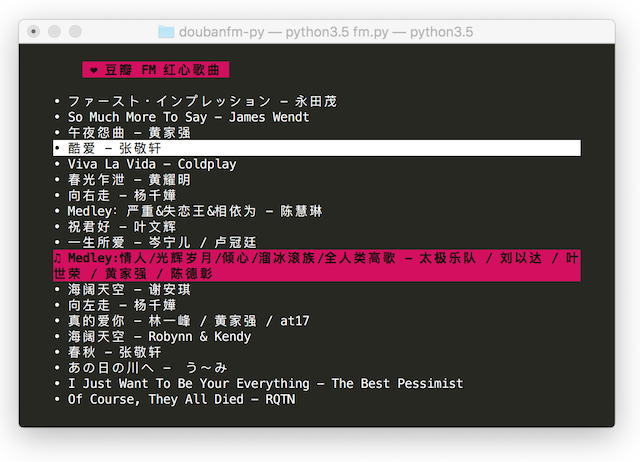
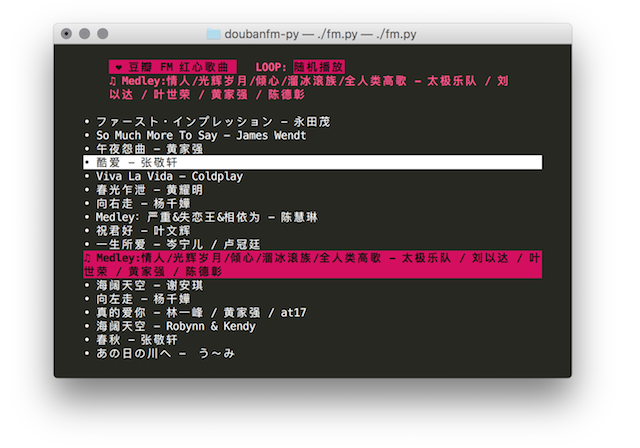
Enhance player

diff --git a/fm.py b/fm.py
@@ -112,7 +112,7 @@ class DoubanFMApi:
 
     def get_redheart_songs(self):
         if self.auth is None:
-            return
+            return []
 
         auth_header = {'Authorization': self.auth}
 
@@ -140,49 +140,37 @@ class DoubanFMApi:
 
 
 class SongButton(urwid.Button):
-    LAST_PRESSED_BTN = None
-
-    def __init__(self, song, on_pressed_callback):
-        self.on_pressed_callback = on_pressed_callback
-        super(SongButton, self).__init__('', self._on_pressed, song)
+    def __init__(self, song, on_pressed_callback, index=0):
+        super(SongButton, self).__init__('', on_pressed_callback)
+        self.index = index
+        self.song = song
+        self.is_playing = False
 
         self._text = urwid.SelectableIcon(
-            u'\N{BULLET} ' + song.title + ' - ' + song.artist,
+            u'• %s - %s' % (song.title, song.artist),
             cursor_position=0)
         self._w = urwid.AttrMap(self._text, None, focus_map='reversed')
+        self.set_is_playing(self.is_playing)
 
-    @property
-    def text(self):
-        return self._text.text
+    # 设置按钮播放状态
+    def set_is_playing(self, is_playing):
+        self.is_playing = is_playing
 
-    def set_text(self, text):
-        self._text.set_text(text)
-
-    def set_attr_map(self, attr_map):
-        self._w.set_attr_map(attr_map)
+        if is_playing:
+            self._text.set_text(u'♫' + self._text.text[1:])
+            self._w.set_attr_map({None: 'playing'})
+        else:
+            self._text.set_text(u'•' + self._text.text[1:])
+            self._w.set_attr_map({'playing': None})
 
     def mouse_event(self, size, event, button, x, y, focus):
         # 屏蔽鼠标点击
         pass
 
-    def _on_pressed(self, button, song):
-        # 按下按钮后, 改变按钮外观
-        if SongButton.LAST_PRESSED_BTN is not None:
-            SongButton.LAST_PRESSED_BTN.set_text(u'\N{BULLET}' + SongButton.LAST_PRESSED_BTN.text[1:])
-            SongButton.LAST_PRESSED_BTN.set_attr_map({'playing': None})
-
-        self.set_text(u'♫' + self.text[1:])
-        self.set_attr_map({None: 'playing'})
-
-        self.on_pressed_callback(button, song)
-        SongButton.LAST_PRESSED_BTN = self
-
 
 class SongListBox(urwid.ListBox):
-    def __init__(self, songs, on_item_pressed_callback):
-        super(SongListBox, self).__init__(urwid.SimpleFocusListWalker(
-            [SongButton(song, on_item_pressed_callback) for song in songs]
-        ))
+    def __init__(self, btns):
+        super(SongListBox, self).__init__(urwid.SimpleFocusListWalker(btns))
 
         self._command_map['j'] = 'cursor down'
         self._command_map['k'] = 'cursor up'
@@ -195,9 +183,9 @@ class SongListBox(urwid.ListBox):
             # 发送退出信号
             urwid.emit_signal(self, 'exit')
 
-        if key in ('p', 'P'):
-            # 暂停/继续播放
-            urwid.emit_signal(self, 'pause_or_play')
+        if key in ('s', 'S'):
+            # 停止播放
+            urwid.emit_signal(self, 'stop')
 
         if key in ('left', 'right'):
             # 下一首歌曲
@@ -209,10 +197,17 @@ class SongListBox(urwid.ListBox):
 
 
 class UI:
+    LOOP_MODE = {
+        0: u'单曲循环',
+        1: u'全部循环',
+        2: u'随机播放',
+    }
+
     def __init__(self):
         self.player = Player()
-        self.songs = []
-        self.playing_song = None
+        self.btns = []
+        self.playing_btn = None
+        self.loop_mode = 0
         self.next_song_alarm = None
         self.main = None
 
@@ -221,6 +216,8 @@ class UI:
             ('reversed', '', '', '', 'standout', ''),
             ('playing', '', '', '', 'bold, g7', '#d06'),
             ('title', '', '', '', 'bold, g7', '#d06'),
+            ('loop_mode', '', '', '', 'bold, g7', '#d06'),
+            ('red', '', '', '', 'bold, #d06', ''),
         ]
 
         self._setup_ui()
@@ -231,15 +228,20 @@ class UI:
 
         api = DoubanFMApi()
         api.login(email, password)
-        self.songs = api.get_redheart_songs()
+        songs = api.get_redheart_songs()
 
         # 头部
-        title = urwid.Text(('title', ' ❤ 豆瓣 FM 红心歌曲 '))
+        self.title = urwid.Text('')
+        self._update_title()
         divider = urwid.Divider()
-        header = urwid.Padding(urwid.Pile([divider, title, divider]), left=4, right=4)
+        header = urwid.Padding(urwid.Pile([divider, self.title, divider]), left=4, right=4)
 
         # 歌曲列表
-        self.song_listbox = SongListBox(self.songs, self._on_item_pressed)
+        index = 0
+        for song in songs:
+            self.btns.append(SongButton(song, self._on_item_pressed, index))
+            index += 1
+        self.song_listbox = SongListBox(self.btns)
 
         # 页面
         self.main = urwid.Padding(
@@ -248,51 +250,89 @@ class UI:
 
         # 注册信号回调
         urwid.register_signal(
-            SongListBox, ['exit', 'pause_or_play', 'next_song', 'change_mode'])
+            SongListBox, ['exit', 'stop', 'next_song', 'change_mode'])
         urwid.connect_signal(self.song_listbox, 'exit', self._on_exit)
-        urwid.connect_signal(self.song_listbox, 'pause_or_play', self._on_exit)
-        urwid.connect_signal(self.song_listbox, 'next_song', self.next_song())
-        urwid.connect_signal(self.song_listbox, 'change_mode', self.change_mode())
+        urwid.connect_signal(self.song_listbox, 'stop', self.stop_song)
+        urwid.connect_signal(self.song_listbox, 'next_song', self.next_song)
+        urwid.connect_signal(self.song_listbox, 'change_mode', self.change_mode)
 
         self.loop = urwid.MainLoop(self.main, palette=self.palette)
         self.loop.screen.set_terminal_properties(colors=256)
 
-    def run(self):
-        self.loop.run()
+    def _update_title(self):
+        text = [
+            ('title', u' ❤ 豆瓣 FM 红心歌曲 '),
+            ('red', u'   LOOP: '),
+            ('loop_mode', u'%s' % UI.LOOP_MODE[self.loop_mode]),
+        ]
 
-    def pause_or_play(self):
-        # todo
-        pass
+        if self.playing_btn is not None:
+            playing_song = self.playing_btn.song
+            text.extend([
+                ('red', u'\n♫ %s - %s' % (playing_song.title, playing_song.artist)),
+            ])
 
-    def next_song(self):
-        # todo
-        pass
+        self.title.set_text(text)
 
-    def change_mode(self):
-        # todo
-        pass
+    def stop_song(self):
+        if self.playing_btn is not None:
+            self.playing_btn.set_is_playing(False)
+        self.playing_btn = None
 
-    def play(self, song):
-        self.player.play(song)
-        self.playing_song = song
-
-        # 循环播放
-        def next_song_alarm_handler(loop, user_data):
-            self.play(self.playing_song)
+        self.player.stop()
+        self._update_title()
 
         if self.next_song_alarm is not None:
             self.loop.remove_alarm(self.next_song_alarm)
 
-        self.next_song_alarm = self.loop.set_alarm_in(
-            self.playing_song.length_in_sec,
-            next_song_alarm_handler, None)
+    def next_song(self):
+        # 单曲循环
+        if self.loop_mode == 0:
+            self._on_item_pressed(self.playing_btn)
+        # 全部循环
+        elif self.loop_mode == 1:
+            index = self.playing_btn.index + 1
+            if index >= len(self.btns):
+                index = 0
+            next_song_btn = self.btns[index]
+            self._on_item_pressed(next_song_btn)
+        # 随机播放
+        elif self.loop_mode == 2:
+            next_song_btn = self.btns[random.randint(0, len(self.btns) - 1)]
+            self._on_item_pressed(next_song_btn)
 
-    def _on_item_pressed(self, button, song):
-        self.play(song)
+    def change_mode(self):
+        if self.loop_mode < 2:
+            self.loop_mode += 1
+        else:
+            self.loop_mode = 0
+
+        self._update_title()
+
+    def _on_item_pressed(self, button):
+        if self.playing_btn is not None:
+            self.playing_btn.set_is_playing(False)
+        self.playing_btn = button
+        self.playing_btn.set_is_playing(True)
+
+        playing_song = self.playing_btn.song
+        self.player.play(playing_song)
+        self._update_title()
+
+        # 循环播放定时设置
+        if self.next_song_alarm is not None:
+            self.loop.remove_alarm(self.next_song_alarm)
+
+        self.next_song_alarm = self.loop.set_alarm_in(
+            playing_song.length_in_sec,
+            lambda loop, data: self.next_song(), None)
 
     def _on_exit(self):
         self.player.stop()
         raise urwid.ExitMainLoop()
+
+    def run(self):
+        self.loop.run()
 
 
 if __name__ == '__main__':

diff --git a/README.md b/README.md
@@ -4,7 +4,15 @@
 
 第三方 **豆瓣 FM** 红心频道播放器。你需要事先安装  `requests`、`urwid` 库，以及安装 [mpg123](http://www.mpg123.de/) / [mplayer](http://mplayerhq.hu/design7/news.html) / [mpv](http://mpv.io/) 三款命令行播放器中的其中一款。
 
-**Finally，使用 `./fm.py`命令启动程式**。按下 Q 或者 Esc 键退出。
+**Finally，使用 `./fm.py` 命令启动程式**。
 
 ## 程式截图
 ![](art/screenshot.png)
+
+## 按键
+- **`m`：** 切换循环模式
+- **`↑`、`↓`、`j`、`k`：** 上下移动光标
+- **`PageUp`、`PageDown`：** 上下翻页
+- **`Enter`、`Space`：** 播放所选曲目
+- **`←`、`→`：** 播放下一首曲目
+- **`q`、`Esc`：** 退出程式
